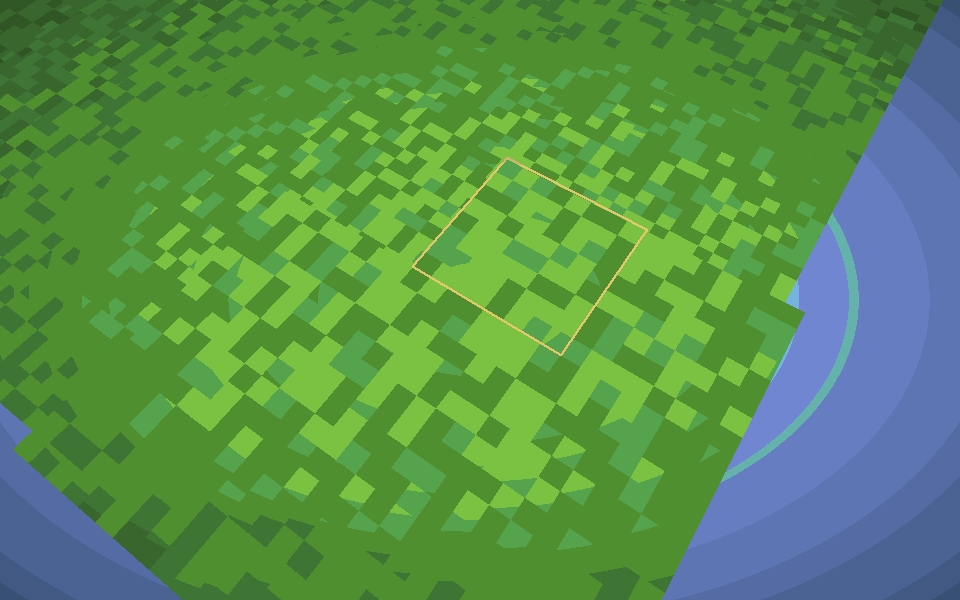
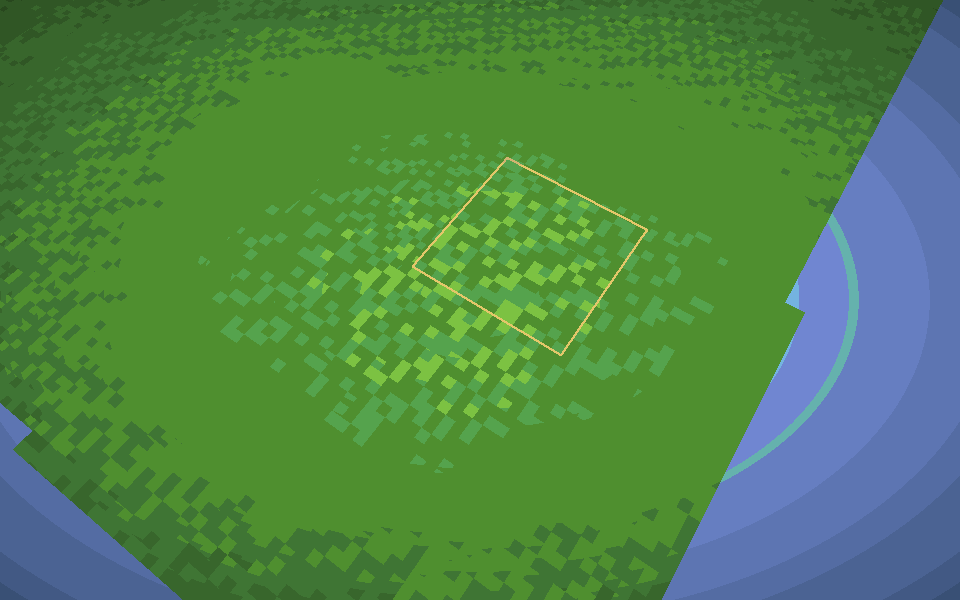
feat(fx T2): textures par matériau (brins, planches, éclats)
Tous les blocs partageaient le même bruit 8×8 : le sol ressemblait à un
camouflage. Chaque matériau a maintenant son motif sur une grille 16×16.

- config.MATERIALS : motif par indice de palette (0 uni, 1 brins, 2 planches,
  3 éclats), appliqué par terrain.frag via u_material[16]
- herbe : brins verticaux sur les côtés, grain sur le dessus
- lumière adoucie (0.28/0.38/0.32) et grain renforcé : les zones claires ne
  s'écrasent plus sur une seule couleur de la palette
- test GPU : la table de matériaux modifie l'image, bois ≠ pierre

diff --git a/tests/test_gl_render.py b/tests/test_gl_render.py
@@ -287,3 +287,65 @@ def test_pas_de_contour_sans_selection(pyxel_headless):
         assert (a != b).sum() == 0
     finally:
         renderer.close()
+
+
+def _rendu_motif(bloc, mur=False, largeur=320, hauteur=200):
+    """Image d'un sol (dessus) ou d'un mur (côtés) uniforme de `bloc`."""
+    from pycraft.gl.context import GlContext
+    from pycraft.gl.renderer_gl import GlRenderer
+
+    monde = World(sx=32, sy=32, sz=16, seed=0)
+    monde.data = bytearray(len(monde.data))
+    if mur:
+        for y in range(32):
+            for x in range(32):
+                for z in range(10):
+                    monde.set(x, y, 8, bloc)
+        camera = Camera(16, 6, 9.5, yaw=1.35, pitch=0.0, width=largeur, height=hauteur)
+    else:
+        for y in range(32):
+            for x in range(32):
+                for z in range(6):
+                    monde.set(x, y, z, bloc)
+        camera = Camera(16, 16, 22, yaw=0.0, pitch=-1.45, width=largeur, height=hauteur)
+
+    gl = GlContext(largeur, hauteur)
+    renderer = GlRenderer(
+        monde, ChunkMeshes(monde), largeur, hauteur,
+        view_distance=40, detail_radius=16, gl=gl,
+    )
+    try:
+        renderer.draw(camera, time=30.0)
+        return np.frombuffer(gl.read_indices(), np.uint8).copy()
+    finally:
+        renderer.close()
+
+
+def test_textures_par_materiau(pyxel_headless):
+    """Le motif dépend du matériau : couper la table doit changer l'image."""
+    import pycraft.config as cfg
+
+    defaut = {
+        "bois": _rendu_motif(Block.WOOD),
+        "pierre": _rendu_motif(Block.STONE),
+        "herbe_cote": _rendu_motif(Block.GRASS, mur=True),
+    }
+    assert len(set(defaut["herbe_cote"].tolist())) >= 4, "un mur d'herbe doit être texturé"
+
+    sauvegarde = cfg.MATERIALS
+    cfg.MATERIALS = (0,) * 16  # tous les blocs « unis » : plus aucun motif
+    try:
+        plat = {
+            "bois": _rendu_motif(Block.WOOD),
+            "pierre": _rendu_motif(Block.STONE),
+            "herbe_cote": _rendu_motif(Block.GRASS, mur=True),
+        }
+    finally:
+        cfg.MATERIALS = sauvegarde
+
+    ecart = {nom: float((defaut[nom] != plat[nom]).mean()) for nom in defaut}
+    assert ecart["herbe_cote"] > 0.02, "les brins doivent modifier les côtés de l'herbe"
+    assert ecart["bois"] > 0.15, "les planches doivent modifier le dessus du bois"
+    assert ecart["pierre"] > 0.15, "les éclats doivent modifier le dessus de la pierre"
+    # Deux matériaux ne doivent pas réagir de la même façon au même changement.
+    assert abs(ecart["bois"] - ecart["pierre"]) > 0.05, "bois et pierre partagent le même motif"

diff --git a/pycraft/config.py b/pycraft/config.py
@@ -53,6 +53,14 @@ PALETTE: tuple[tuple[int, int, int], ...] = tuple(
     ((c >> 16) & 0xFF, (c >> 8) & 0xFF, c & 0xFF) for c in PALETTE_HEX
 )
 
+# Motif de texture par indice de palette. 0 = uni (ciel, eau, blanc),
+# 1 = brins verticaux (herbe, feuillage), 2 = planches horizontales (bois),
+# 3 = éclats (pierre, terre, sable). Lu par terrain.frag.
+MATERIALS: tuple[int, ...] = (
+    0, 0, 3, 1, 3, 0, 3, 0,
+    0, 2, 3, 1, 0, 3, 1, 3,
+)
+
 
 class Block(IntEnum):
     """Types de blocs. La valeur entière est stockée dans le bytearray."""

diff --git a/pycraft/gl/renderer_gl.py b/pycraft/gl/renderer_gl.py
@@ -138,6 +138,8 @@ class GlRenderer:
         self.lut_tex.filter = (moderngl.NEAREST, moderngl.NEAREST)
         couleurs = np.array(config.PALETTE, dtype=np.float32) / 255.0
         self.terrain_prog["u_colors"].write(np.ascontiguousarray(couleurs).tobytes())
+        materiaux = np.array(config.MATERIALS, dtype=np.int32)
+        self.terrain_prog["u_material"].write(np.ascontiguousarray(materiaux).tobytes())
 
     # ------------------------------------------------------------------
     def _chunks_visibles(self, camera: Camera):
